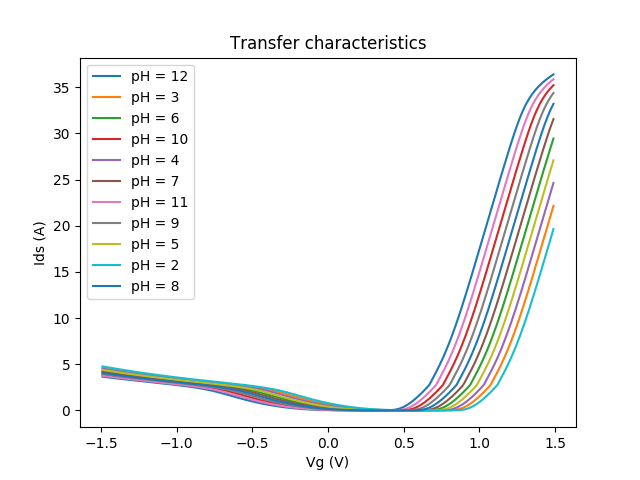
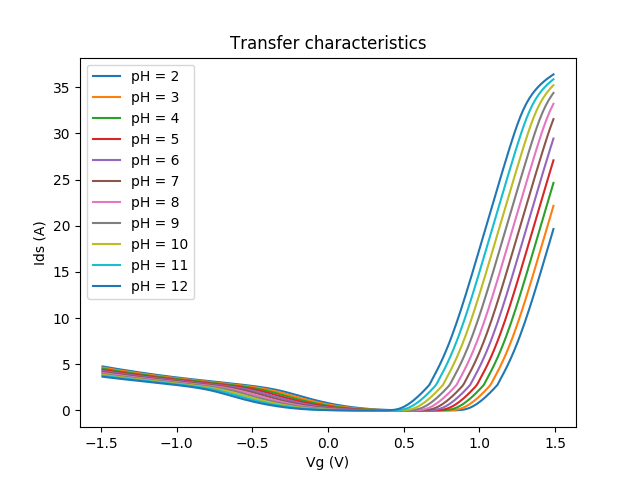
Modified the order of legend in the plot

diff --git a/pH_plot.py b/pH_plot.py
@@ -23,15 +23,23 @@ def main():
 
 def plot_GNR(files_GNR, root_GNR):
     plt.figure()
+    i = 1
+    data = np.arange(3588).reshape(299, 12)
+    data.dtype = np.float
     for file in files_GNR:
         pH = int(file[-5])
         if file[-6] == '1':
             pH = pH + 10
-        data = pd.read_csv(root_GNR + '/' + file, header=None)
-        data = np.array(data)
+        tmp = pd.read_csv(root_GNR + '/' + file, header=None)
+        tmp = np.array(tmp)
+        data[:, 0] = tmp [:, 0]
+        data[:, pH-1] = tmp[:, 1]
+
+    while i < 12:
         Vg = data[:, 0]
-        Ids = data[:, 1]
-        plt.plot(Vg, Ids, label="pH = " + str(pH))
+        Ids = data[:, i]
+        i = i + 1
+        plt.plot(Vg, Ids, label="pH = " + str(i))
 
     plt.xlabel('Vg (V)')
     plt.ylabel('Ids (A)')
@@ -42,15 +50,23 @@ def plot_GNR(files_GNR, root_GNR):
 
 def plot_CNT(files_CNT, root_CNT):
     plt.figure()
+    i = 1
+    data = np.arange(3588).reshape(299, 12)
+    data.dtype = np.float
     for file in files_CNT:
         pH = int(file[-5])
         if file[-6] == '1':
             pH = pH + 10
-        data = pd.read_csv(root_CNT + '/' + file, header=None)
-        data = np.array(data)
+        tmp = pd.read_csv(root_CNT + '/' + file, header=None)
+        tmp = np.array(tmp)
+        data[:, 0] = tmp [:, 0]
+        data[:, pH-1] = tmp[:, 1]
+
+    while i < 12:
         Vg = data[:, 0]
-        Ids = data[:, 1]
-        plt.plot(Vg, Ids, label="pH = " + str(pH))
+        Ids = data[:, i]
+        i = i + 1
+        plt.plot(Vg, Ids, label="pH = " + str(i))
 
     plt.xlabel('Vg (V)')
     plt.ylabel('Ids (A)')
